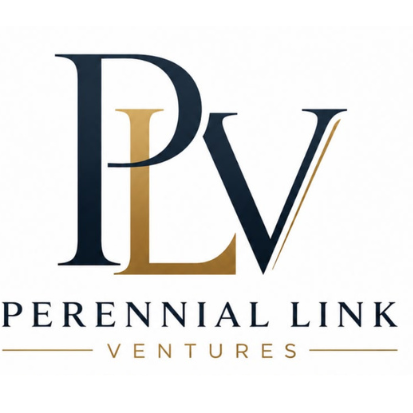
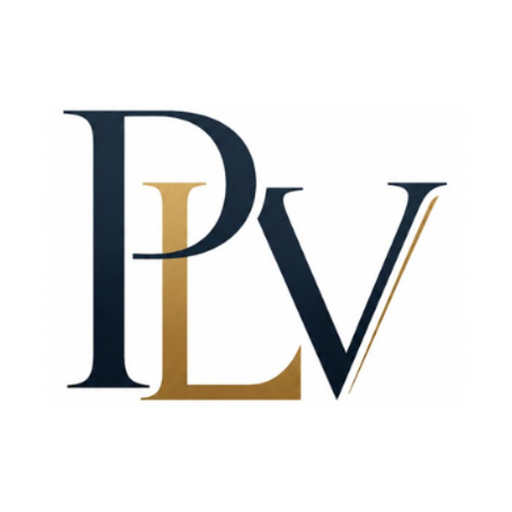
Fix footer syntax and apply PLV branding

diff --git a/components/layout/Footer.tsx b/components/layout/Footer.tsx
@@ -36,7 +36,6 @@ export default function Footer() {
                   className="object-contain"
                 />
               </div>
-              </div>
               <span className="font-extrabold text-white text-xl tracking-tight">
                 Perennial Link
               </span>
@@ -50,11 +49,11 @@ export default function Footer() {
           <div className="space-y-3">
             <h4 className="text-sm font-bold text-white uppercase tracking-wider">Quick Links</h4>
             <ul className="space-y-2 text-sm">
-              <li><Link href="/" className="hover:text-sky-400 transition-colors">Home</Link></li>
-              <li><Link href="/products" className="hover:text-sky-400 transition-colors">Marketplace Products</Link></li>
-              <li><Link href="/listings" className="hover:text-sky-400 transition-colors">Browse Business Directory</Link></li>
-              <li><Link href="/register" className="hover:text-sky-400 transition-colors">Register Your Business</Link></li>
-              <li><Link href="/about" className="hover:text-sky-400 transition-colors">About Us</Link></li>
+              <li><Link href="/" className="hover:text-gold-400 transition-colors">Home</Link></li>
+              <li><Link href="/products" className="hover:text-gold-400 transition-colors">Marketplace Products</Link></li>
+              <li><Link href="/listings" className="hover:text-gold-400 transition-colors">Browse Business Directory</Link></li>
+              <li><Link href="/register" className="hover:text-gold-400 transition-colors">Register Your Business</Link></li>
+              <li><Link href="/about" className="hover:text-gold-400 transition-colors">About Us</Link></li>
             </ul>
           </div>
 
@@ -66,7 +65,7 @@ export default function Footer() {
                 <li key={cat.slug}>
                   <Link
                     href={`/products?category=${encodeURIComponent(cat.slug)}`}
-                    className="hover:text-sky-400 transition-colors text-xs leading-relaxed block"
+                    className="hover:text-gold-400 transition-colors text-xs leading-relaxed block"
                   >
                     {cat.name}
                   </Link>
@@ -83,7 +82,7 @@ export default function Footer() {
                 <Phone className="w-4 h-4 text-sea shrink-0 mt-0.5" />
                 <div>
                   <span className="block font-semibold text-white">Telephone</span>
-                  <a href="tel:0545898775" className="hover:text-sky-400 transition-colors">0545898775</a>
+                  <a href="tel:0545898775" className="hover:text-gold-400 transition-colors">0545898775</a>
                 </div>
               </li>
               <li className="flex items-start gap-3">
@@ -97,7 +96,7 @@ export default function Footer() {
                 <Mail className="w-4 h-4 text-sea shrink-0 mt-0.5" />
                 <div>
                   <span className="block font-semibold text-white">Email Address</span>
-                  <a href="mailto:info@perenniallink.com" className="hover:text-sky-400 transition-colors">
+                  <a href="mailto:info@perenniallink.com" className="hover:text-gold-400 transition-colors">
                     info@perenniallink.com
                   </a>
                 </div>
@@ -111,9 +110,9 @@ export default function Footer() {
         <div className="pt-8 flex flex-col md:flex-row items-center justify-between text-xs text-slate-500 gap-4">
           <p>© {new Date().getFullYear()} Perennial Link Ventures. All rights reserved.</p>
           <div className="flex items-center gap-6">
-            <Link href="/terms" className="hover:text-slate-400">Terms of Service</Link>
-            <Link href="/privacy" className="hover:text-slate-400">Privacy Policy</Link>
-            <Link href="/sitemap.xml" className="hover:text-slate-400">Sitemap</Link>
+            <Link href="/terms" className="hover:text-gold-400">Terms of Service</Link>
+            <Link href="/privacy" className="hover:text-gold-400">Privacy Policy</Link>
+            <Link href="/sitemap.xml" className="hover:text-gold-400">Sitemap</Link>
           </div>
         </div>
       </div>

diff --git a/components/layout/Navbar.tsx b/components/layout/Navbar.tsx
@@ -196,7 +196,7 @@ export default function Navbar() {
             <Link href="/" onClick={() => setIsMobileMenuOpen(false)} className="px-3 py-2 rounded-md hover:bg-slate-50">
               Home
             </Link>
-            <Link href="/products" onClick={() => setIsMobileMenuOpen(false)} className="px-3 py-2 rounded-md hover:bg-sky-50 font-bold text-sea">
+            <Link href="/products" onClick={() => setIsMobileMenuOpen(false)} className="px-3 py-2 rounded-md hover:bg-gold-50 font-bold text-gold-700">
               🛍 Marketplace Products
             </Link>
             <Link href="/categories" onClick={() => setIsMobileMenuOpen(false)} className="px-3 py-2 rounded-md hover:bg-slate-50">
@@ -216,7 +216,7 @@ export default function Navbar() {
           <div className="pt-3 border-t border-slate-100 flex flex-col gap-2">
             <a
               href="tel:0545898775"
-              className="flex items-center justify-center gap-2 text-sm font-semibold text-sea bg-brand-50 py-2 rounded-lg border border-brand-200"
+              className="flex items-center justify-center gap-2 text-sm font-semibold text-gold-700 bg-gold-50 py-2 rounded-lg border border-gold-200"
             >
               <PhoneCall className="w-4 h-4" />
               Call Support: 0545898775

diff --git a/components/ui/button.tsx b/components/ui/button.tsx
@@ -12,9 +12,9 @@ export const Button = React.forwardRef<HTMLButtonElement, ButtonProps>(
     const baseStyles = 'inline-flex items-center justify-center font-medium rounded-lg transition-all focus:outline-none focus:ring-2 focus:ring-offset-2 disabled:opacity-50 disabled:cursor-not-allowed';
     
     const variants = {
-      primary: 'bg-sea hover:bg-brand-600 text-white focus:ring-brand-500 shadow-sm shadow-sea/20',
+      primary: 'bg-gold-700 hover:bg-gold-800 text-white focus:ring-gold-500 shadow-sm shadow-gold-700/20',
       secondary: 'bg-slate-100 hover:bg-slate-200 text-slate-800 focus:ring-slate-400',
-      outline: 'border border-slate-300 bg-white hover:bg-slate-50 text-slate-700 focus:ring-brand-500',
+      outline: 'border border-gold-300 bg-white hover:bg-gold-50 text-sea focus:ring-gold-500',
       danger: 'bg-rose-600 hover:bg-rose-700 text-white focus:ring-rose-500',
       ghost: 'bg-transparent hover:bg-slate-100 text-slate-700 focus:ring-slate-300',
     };

diff --git a/app/layout.tsx b/app/layout.tsx
@@ -7,6 +7,11 @@ import Providers from '@/components/common/Providers';
 const appUrl = process.env.NEXT_PUBLIC_APP_URL || 'http://localhost:3000';
 
 export const metadata: Metadata = {
+  icons: {
+    icon: [{ url: '/icon.png', type: 'image/png' }],
+    apple: [{ url: '/icon.png', type: 'image/png' }],
+  },
+  themeColor: '#1A2D44',
   title: {
     default: 'Perennial Link Ventures | Global Business Directory',
     template: '%s | Perennial Link Ventures',
